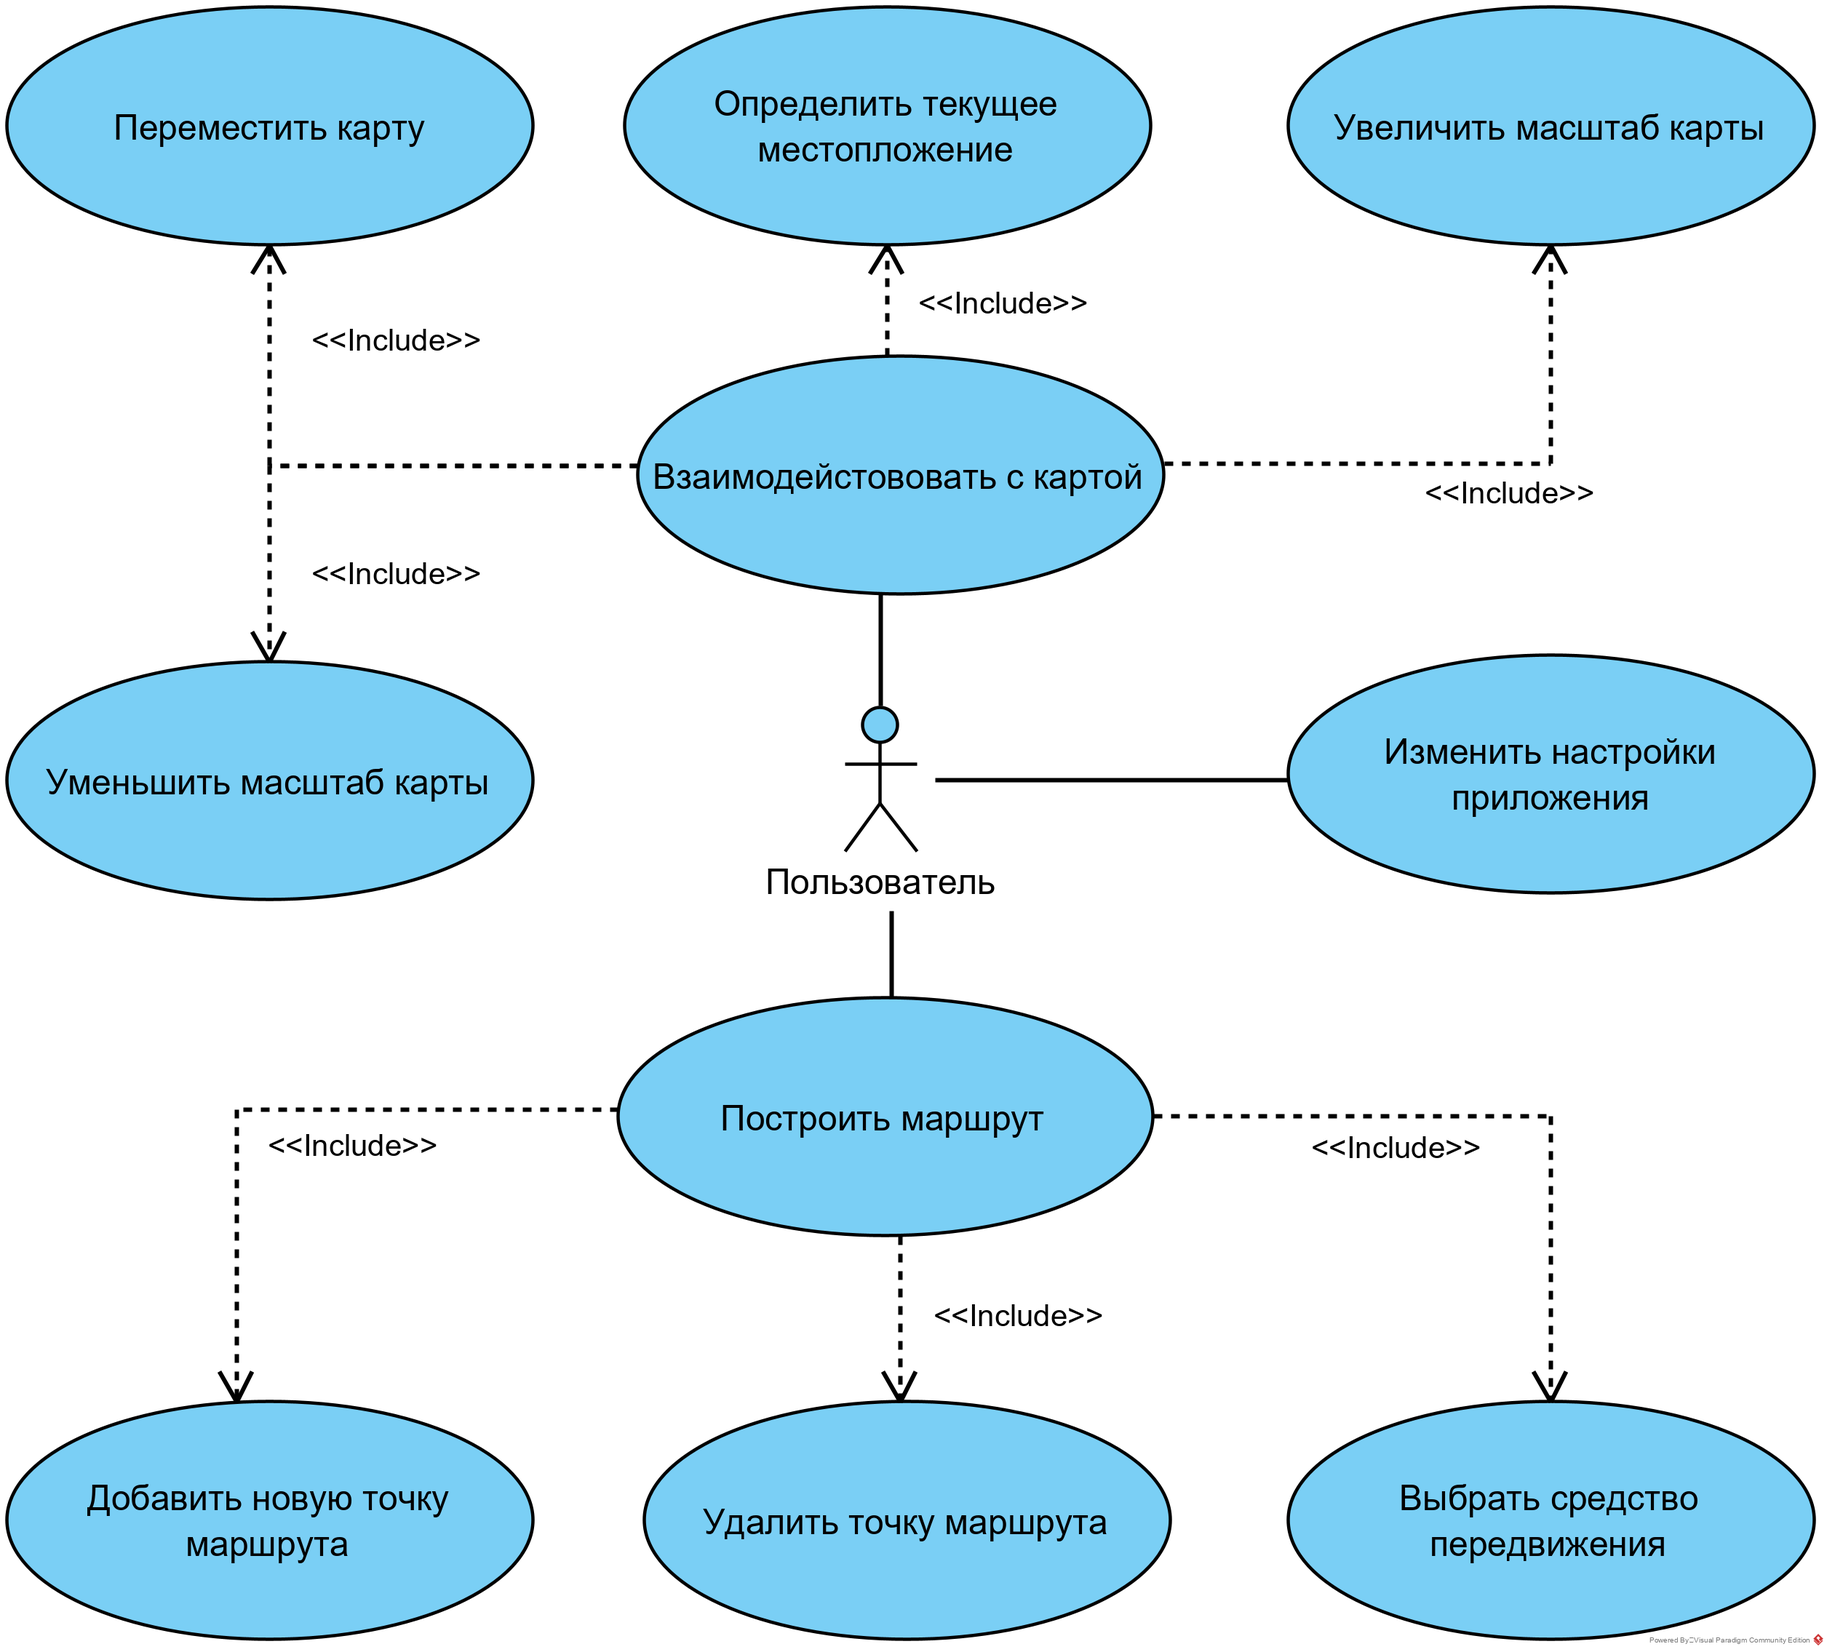
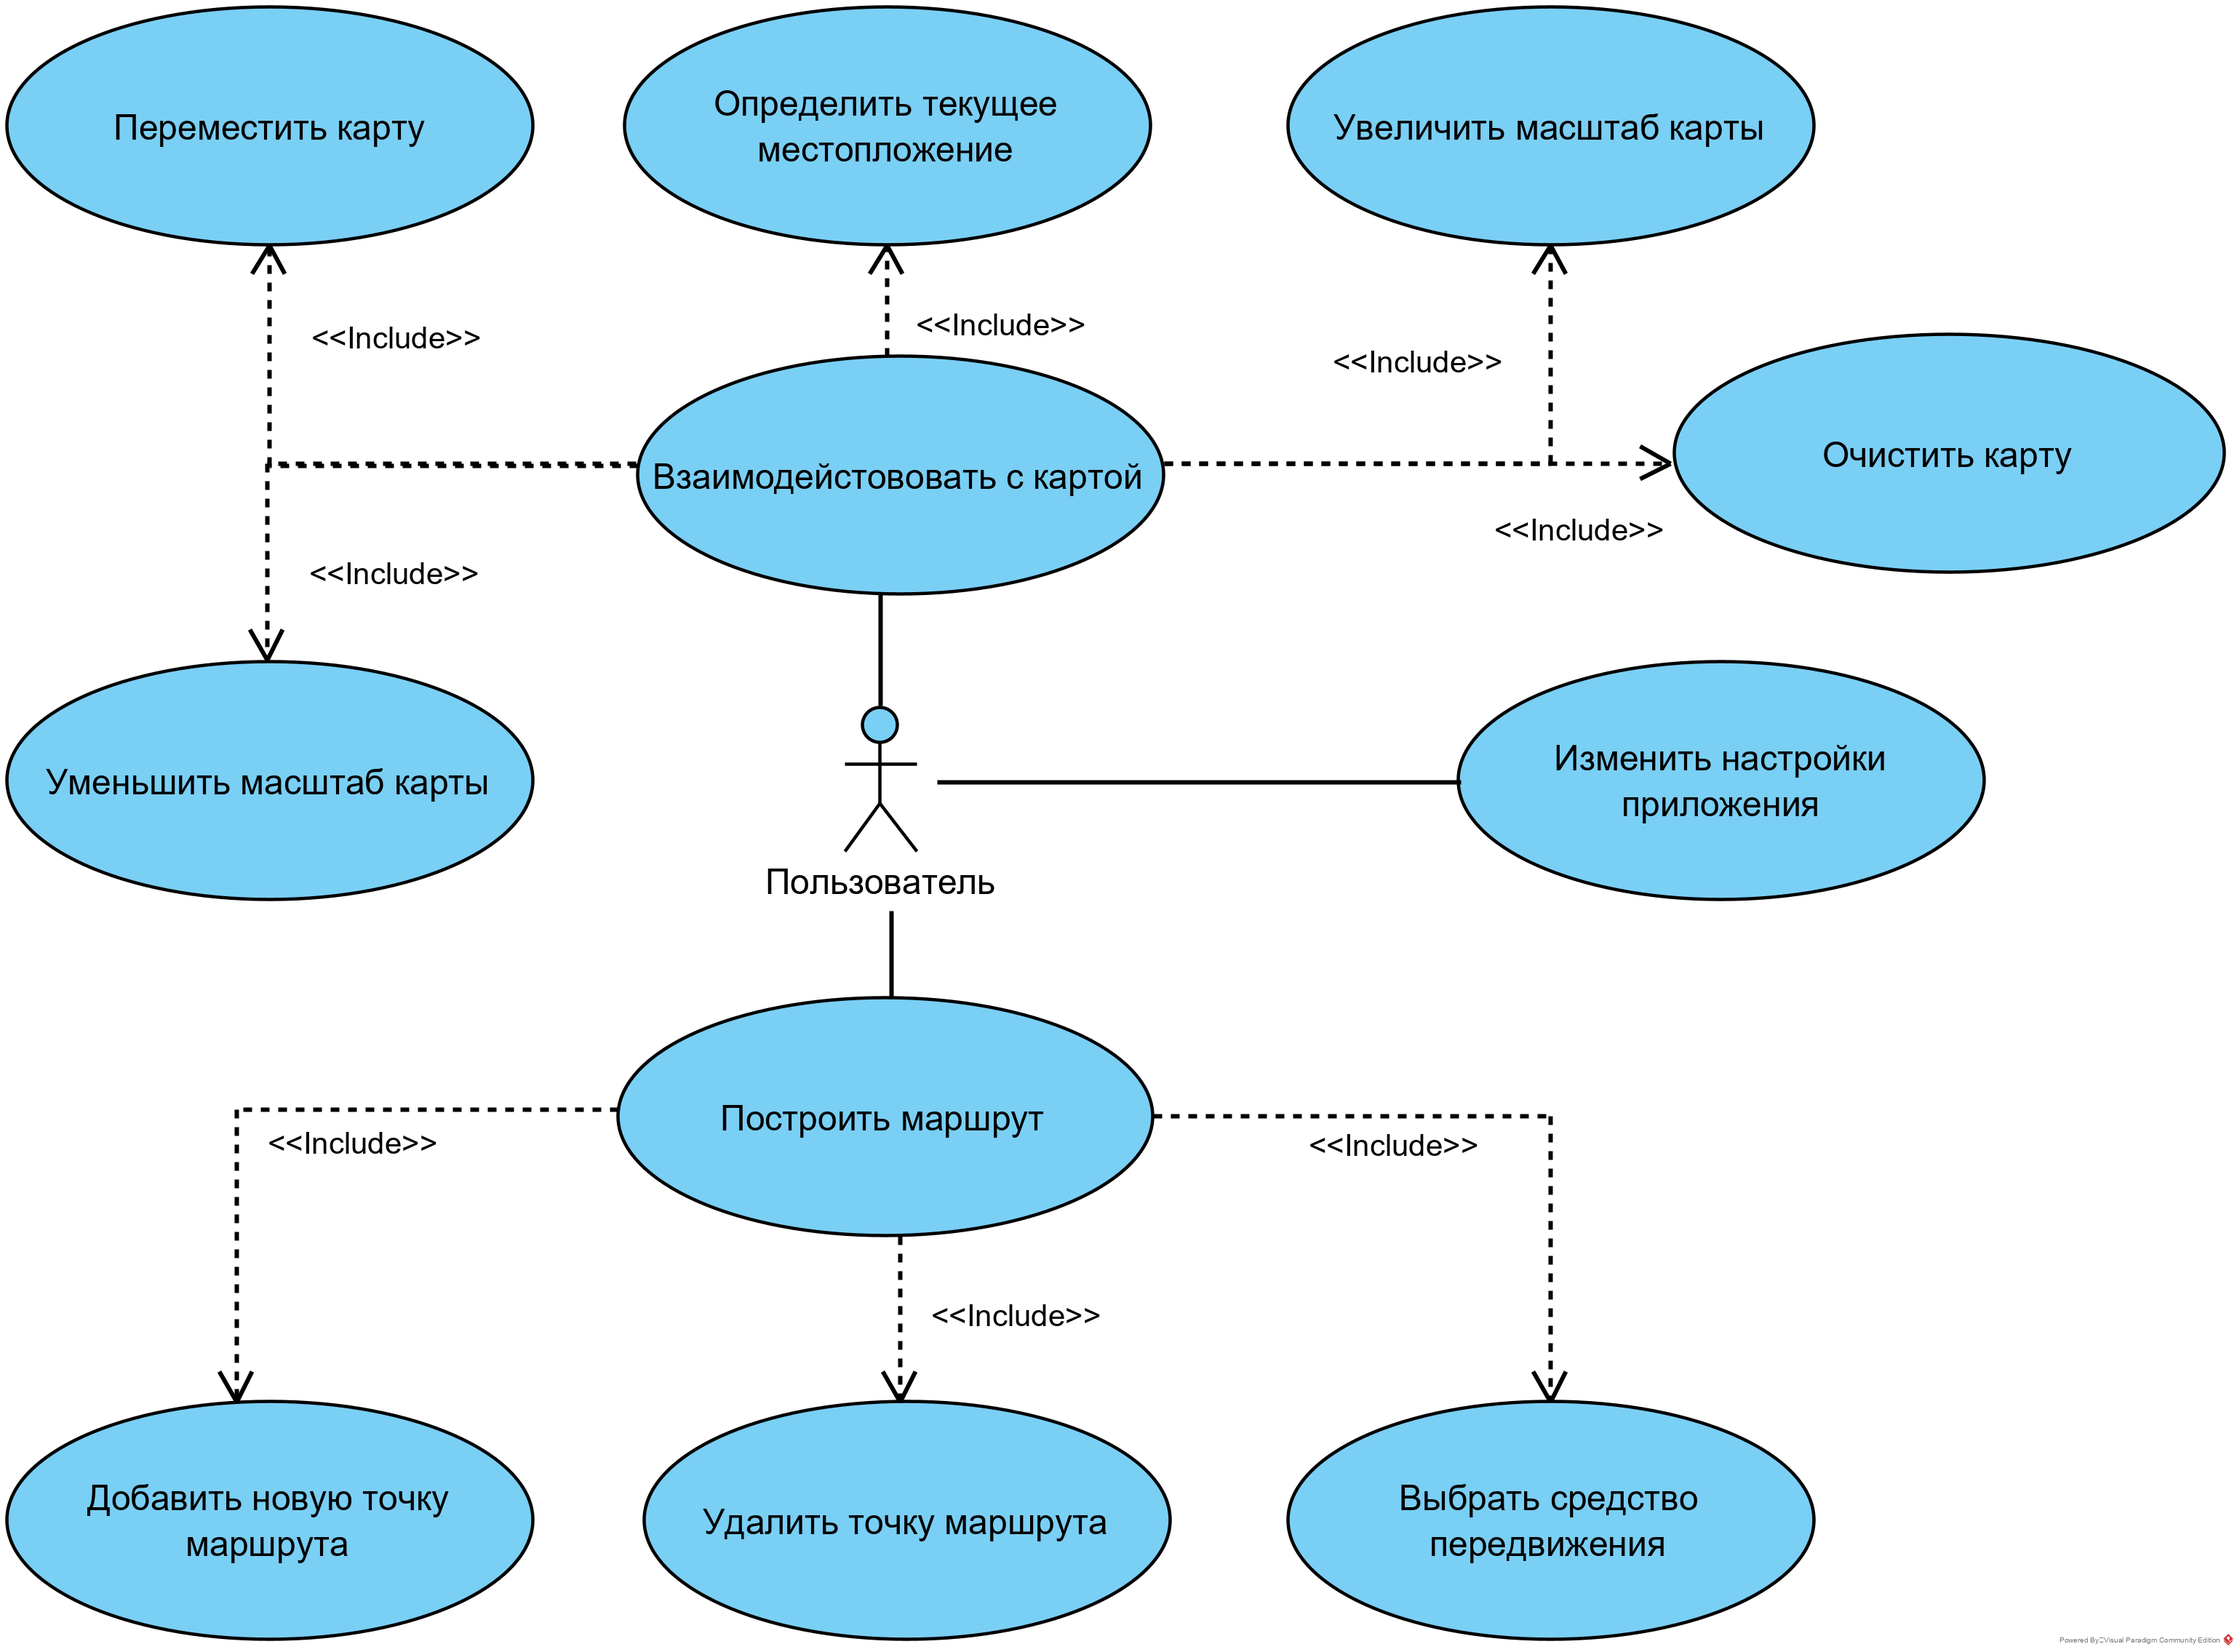
Update diagrams and mockups

diff --git a/Документы/SRS.md b/Документы/SRS.md
@@ -67,8 +67,8 @@
 1.	Работа с картой - возможность пользователя увеличивать или уменьшать размер карты;
 2.	Построение маршрута -  создание маршрута через определённые точки, которые выбирает пользователь, выбор способа передвижения пользователя;
 3.	Определение геолокации -  возможность пользователя определить текущее местоположение на карте;
-4.	Настройки -  пользователю необходимо предоставить возможность настраивать приложение под себя (установка цвета маршрута, цвета маркера местоположения пользователя, цвета маркеров точек маршрута, настройка уведомлений);
-5.	Уведомления -  реализовать возможность текстовых сообщений о достижении точки маршрута;
+4.  Очистка карты - возможность пользователя очищать карту от маршрута;
+5.	Настройки -  пользователю необходимо предоставить возможность настраивать приложение под себя (установка цвета маршрута, цвета маркера местоположения пользователя, цвета маркеров точек маршрута, настройка уведомлений);
 
 #### 3.2. Нефункциональные требования <a name="3.2"></a>   
 
